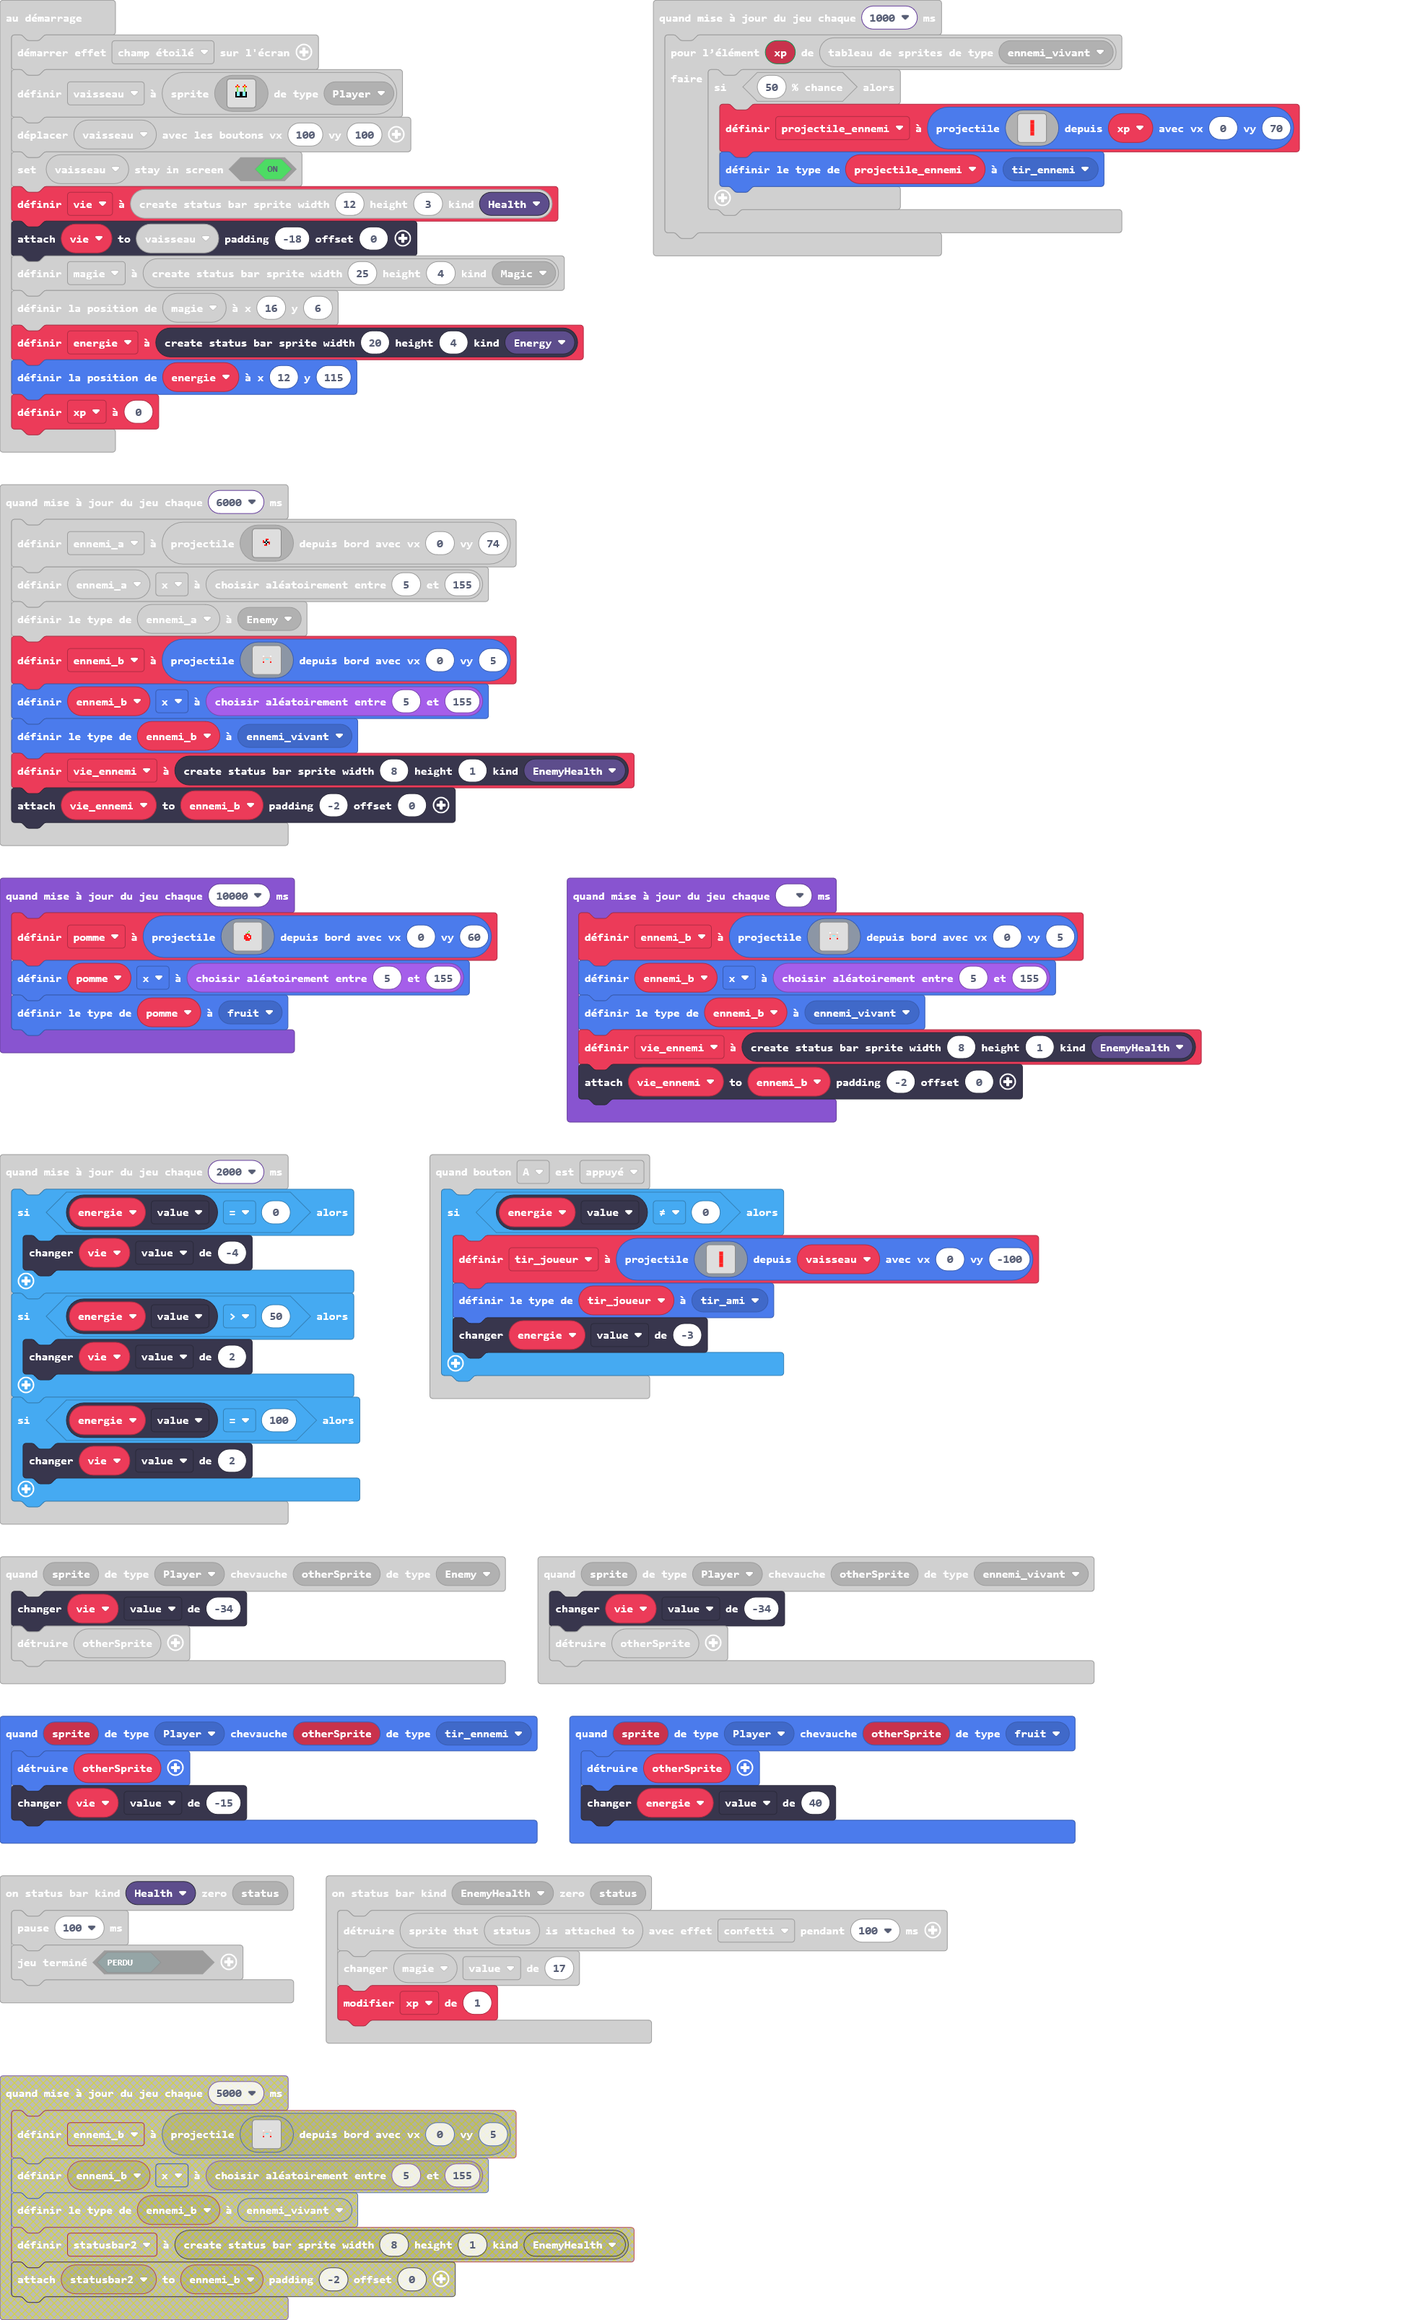
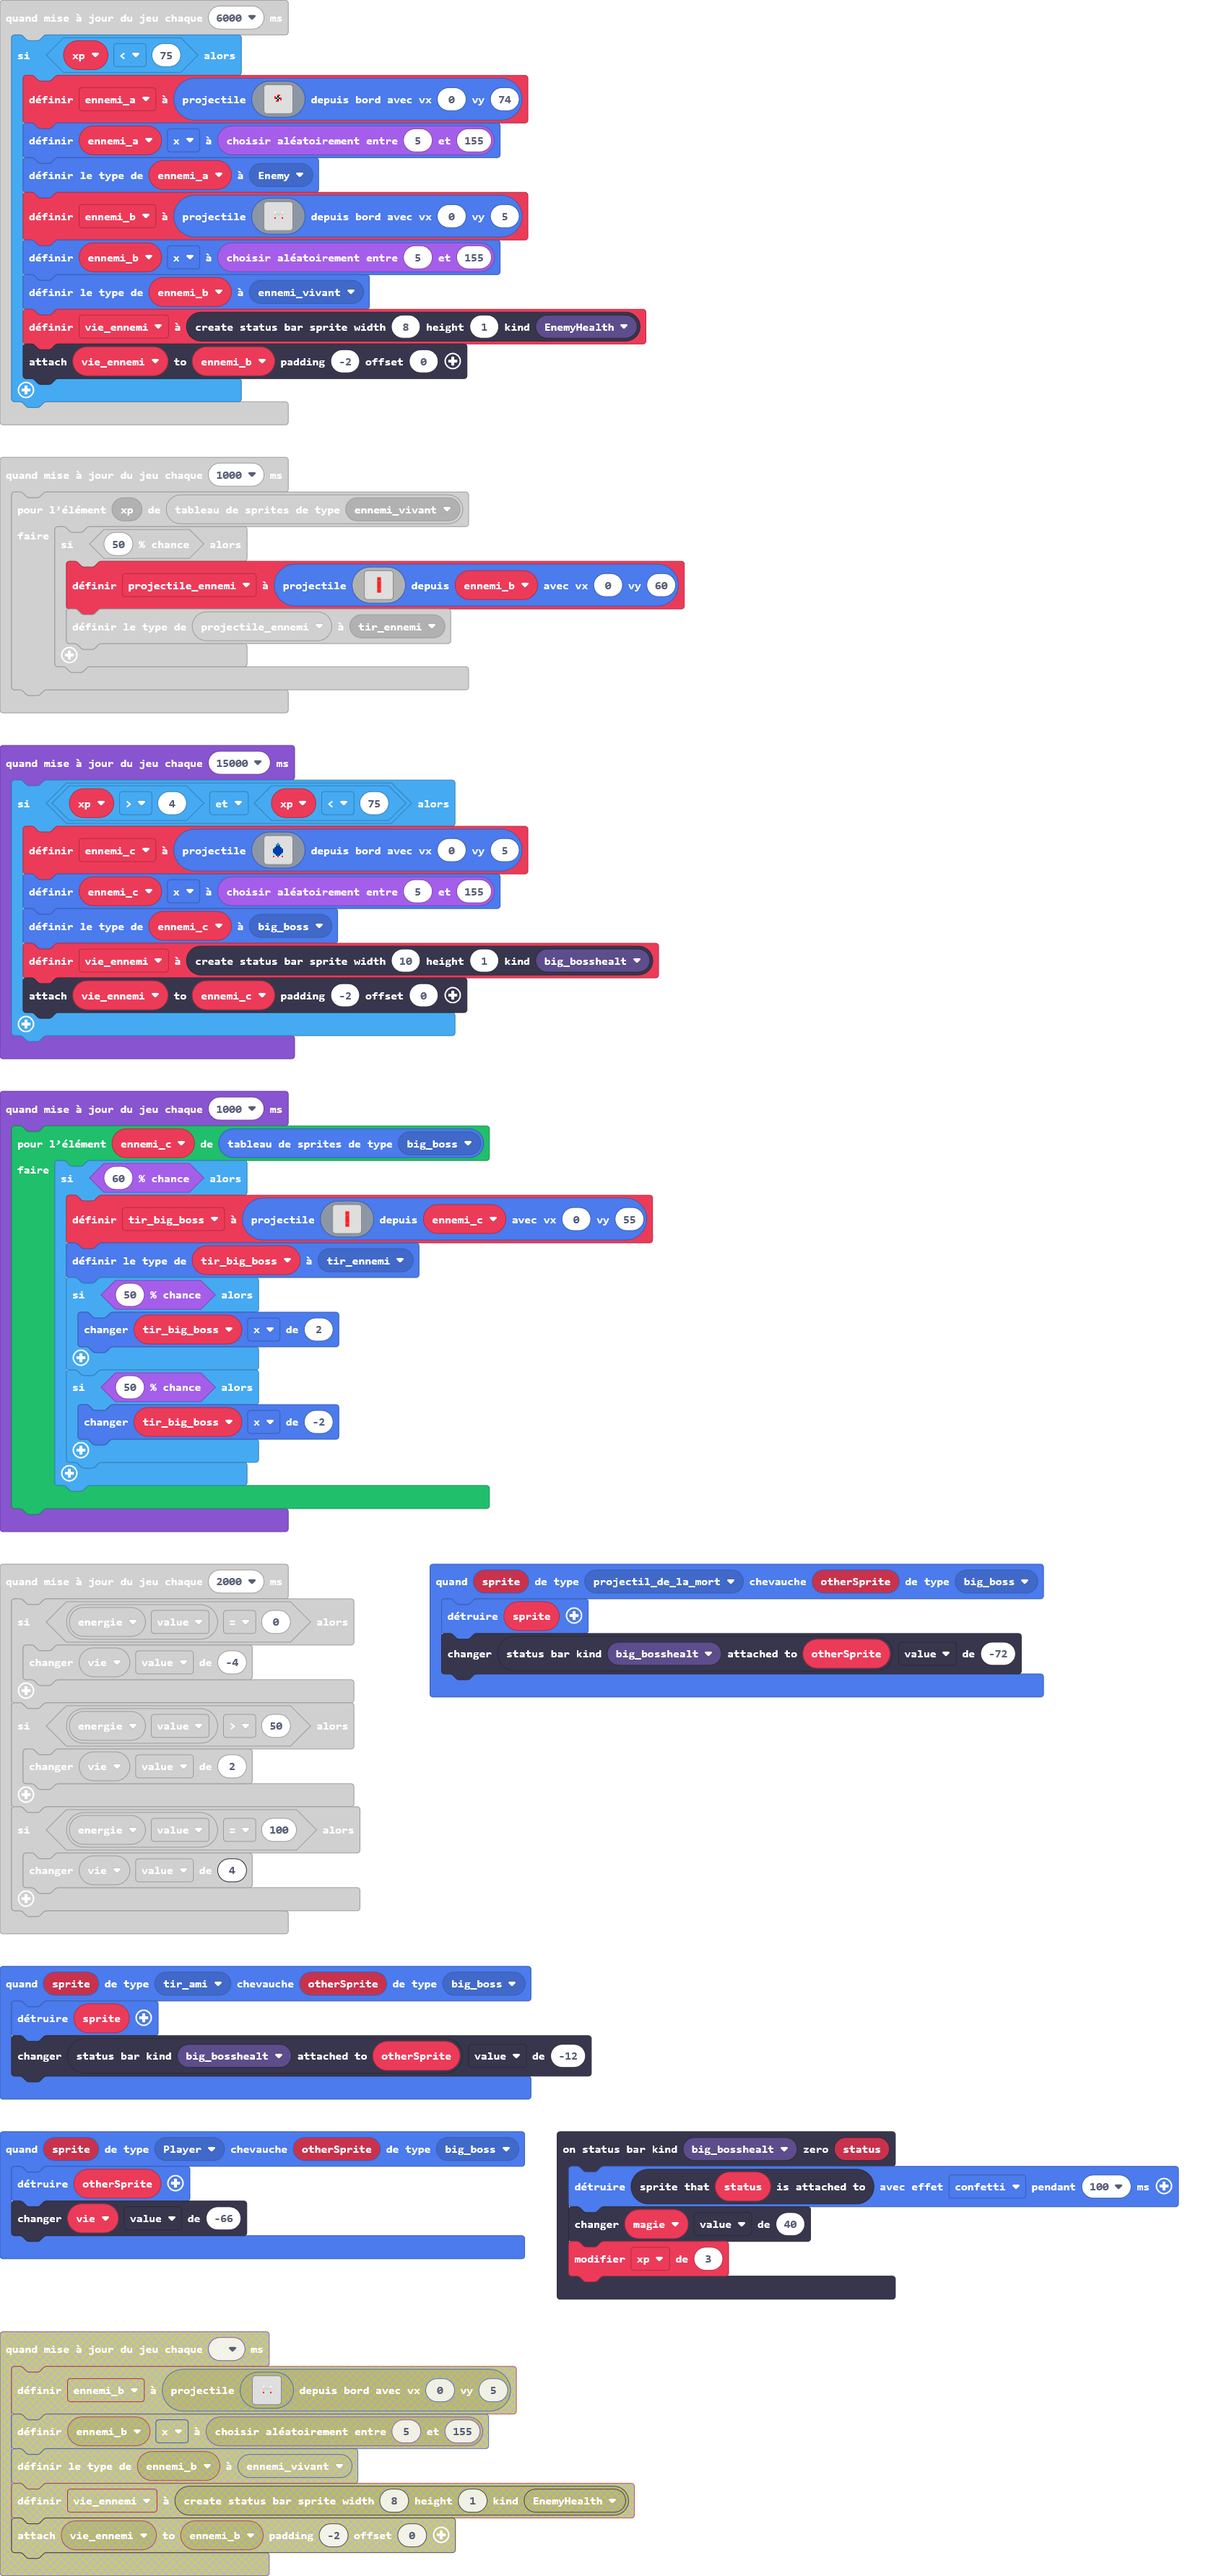
Mise à jour main.blocks, main.ts

diff --git a/main.ts b/main.ts
@@ -4,7 +4,17 @@ namespace SpriteKind {
     export const projectil_de_la_mort = SpriteKind.create()
     export const tir_ennemi = SpriteKind.create()
     export const fruit = SpriteKind.create()
+    export const big_boss = SpriteKind.create()
+    export const tir_big_boss = SpriteKind.create()
 }
+namespace StatusBarKind {
+    export const big_bosshealt = StatusBarKind.create()
+}
+statusbars.onZero(StatusBarKind.big_bosshealt, function (status) {
+    status.spriteAttachedTo().destroy(effects.confetti, 100)
+    magie.value += 40
+    xp += 3
+})
 sprites.onOverlap(SpriteKind.tir_ami, SpriteKind.ennemi_vivant, function (sprite, otherSprite) {
     sprite.destroy()
     statusbars.getStatusBarAttachedTo(StatusBarKind.EnemyHealth, otherSprite).value += -34
@@ -20,6 +30,10 @@ sprites.onOverlap(SpriteKind.Player, SpriteKind.fruit, function (sprite, otherSp
 sprites.onOverlap(SpriteKind.projectil_de_la_mort, SpriteKind.ennemi_vivant, function (sprite, otherSprite) {
     sprite.destroy()
     statusbars.getStatusBarAttachedTo(StatusBarKind.EnemyHealth, otherSprite).value += -200
+})
+sprites.onOverlap(SpriteKind.tir_ami, SpriteKind.big_boss, function (sprite, otherSprite) {
+    sprite.destroy()
+    statusbars.getStatusBarAttachedTo(StatusBarKind.big_bosshealt, otherSprite).value += -12
 })
 controller.A.onEvent(ControllerButtonEvent.Pressed, function () {
     if (energie.value != 0) {
@@ -39,6 +53,10 @@ statusbars.onZero(StatusBarKind.EnemyHealth, function (status) {
     status.spriteAttachedTo().destroy(effects.confetti, 100)
     magie.value += 17
     xp += 1
+})
+sprites.onOverlap(SpriteKind.projectil_de_la_mort, SpriteKind.big_boss, function (sprite, otherSprite) {
+    sprite.destroy()
+    statusbars.getStatusBarAttachedTo(StatusBarKind.big_bosshealt, otherSprite).value += -72
 })
 statusbars.onZero(StatusBarKind.Health, function (status) {
     pause(100)
@@ -63,15 +81,21 @@ sprites.onOverlap(SpriteKind.Player, SpriteKind.ennemi_vivant, function (sprite,
     vie.value += -34
     otherSprite.destroy()
 })
+sprites.onOverlap(SpriteKind.Player, SpriteKind.big_boss, function (sprite, otherSprite) {
+    otherSprite.destroy()
+    vie.value += -66
+})
 sprites.onOverlap(SpriteKind.Player, SpriteKind.Enemy, function (sprite, otherSprite) {
     vie.value += -34
     otherSprite.destroy()
 })
 let pomme: Sprite = null
-let vie_ennemi: StatusBarSprite = null
-let ennemi_b: Sprite = null
 let ennemi_a: Sprite = null
+let tir_big_boss: Sprite = null
+let ennemi_b: Sprite = null
 let projectile_ennemi: Sprite = null
+let vie_ennemi: StatusBarSprite = null
+let ennemi_c: Sprite = null
 let projectile_de_la_mort_ami: Sprite = null
 let tir_joueur: Sprite = null
 let energie: StatusBarSprite = null
@@ -106,6 +130,32 @@ magie.setPosition(16, 6)
 energie = statusbars.create(20, 4, StatusBarKind.Energy)
 energie.setPosition(12, 115)
 let xp = 0
+game.onUpdateInterval(15000, function () {
+    if (xp > 4 && xp < 75) {
+        ennemi_c = sprites.createProjectileFromSide(img`
+            . . . . . . . . . . . . . . . . 
+            . . . . . . . . . . . . . . . . 
+            . . . . . . . . . . . . . . . . 
+            . . . . . . . 6 . . . . . . . . 
+            . . . . . . 6 6 6 . . . . . . . 
+            . . . . . . 8 8 8 . . . . . . . 
+            . . . . . 8 8 8 8 8 . . . . . . 
+            . . . . 8 8 8 8 8 8 8 . . . . . 
+            . . . . 8 8 8 8 8 8 8 . . . . . 
+            . . . . 8 8 8 8 8 8 8 . . . . . 
+            . . . . 9 8 8 8 8 8 9 . . . . . 
+            . . . . 9 . 8 8 8 . 9 . . . . . 
+            . . . . 2 . . 2 . . 2 . . . . . 
+            . . . . . . . . . . . . . . . . 
+            . . . . . . . . . . . . . . . . 
+            . . . . . . . . . . . . . . . . 
+            `, 0, 5)
+        ennemi_c.x = randint(5, 155)
+        ennemi_c.setKind(SpriteKind.big_boss)
+        vie_ennemi = statusbars.create(10, 1, StatusBarKind.big_bosshealt)
+        vie_ennemi.attachToSprite(ennemi_c, -2, 0)
+    }
+})
 game.onUpdateInterval(2000, function () {
     if (energie.value == 0) {
         vie.value += -4
@@ -114,7 +164,7 @@ game.onUpdateInterval(2000, function () {
         vie.value += 2
     }
     if (energie.value == 100) {
-        vie.value += 2
+        vie.value += 4
     }
 })
 game.onUpdateInterval(1000, function () {
@@ -127,78 +177,77 @@ game.onUpdateInterval(1000, function () {
                 . 2 . 
                 . 2 . 
                 . . . 
-                `, xp, 0, 70)
+                `, ennemi_b, 0, 60)
             projectile_ennemi.setKind(SpriteKind.tir_ennemi)
         }
     }
 })
-game.onUpdateInterval(6000, function () {
-    ennemi_a = sprites.createProjectileFromSide(img`
-        . . . . . . . . . . . . . . . . 
-        . . . . . . . . . . . . . . . . 
-        . . . . . . . . . . . . . . . . 
-        . . . . . . . . . . . . . . . . 
-        . . . . . . . . . . . . . . . . 
-        . . . . . . . 2 2 . . . . . . . 
-        . . . . . 2 . f . . . . . . . . 
-        . . . . . 2 f 9 f 2 . . . . . . 
-        . . . . . . . f . 2 . . . . . . 
-        . . . . . . 2 2 . . . . . . . . 
-        . . . . . . . . . . . . . . . . 
-        . . . . . . . . . . . . . . . . 
-        . . . . . . . . . . . . . . . . 
-        . . . . . . . . . . . . . . . . 
-        . . . . . . . . . . . . . . . . 
-        . . . . . . . . . . . . . . . . 
-        `, 0, 74)
-    ennemi_a.x = randint(5, 155)
-    ennemi_a.setKind(SpriteKind.Enemy)
-    ennemi_b = sprites.createProjectileFromSide(img`
-        . . . . . . . . . . . . . . . . 
-        . . . . . . . . . . . . . . . . 
-        . . . . . . . . . . . . . . . . 
-        . . . . . . . . . . . . . . . . 
-        . . . . . . . . . . . . . . . . 
-        . . . . . 1 . . . . 1 . . . . . 
-        . . . . . d d d d d d . . . . . 
-        . . . . . d . 9 9 . d . . . . . 
-        . . . . . d . . . . d . . . . . 
-        . . . . . 2 . . . . 2 . . . . . 
-        . . . . . . . . . . . . . . . . 
-        . . . . . . . . . . . . . . . . 
-        . . . . . . . . . . . . . . . . 
-        . . . . . . . . . . . . . . . . 
-        . . . . . . . . . . . . . . . . 
-        . . . . . . . . . . . . . . . . 
-        `, 0, 5)
-    ennemi_b.x = randint(5, 155)
-    ennemi_b.setKind(SpriteKind.ennemi_vivant)
-    vie_ennemi = statusbars.create(8, 1, StatusBarKind.EnemyHealth)
-    vie_ennemi.attachToSprite(ennemi_b, -2, 0)
+game.onUpdateInterval(1000, function () {
+    for (let ennemi_c of sprites.allOfKind(SpriteKind.big_boss)) {
+        if (Math.percentChance(60)) {
+            tir_big_boss = sprites.createProjectileFromSprite(img`
+                . . . 
+                . 2 . 
+                . 2 . 
+                . 2 . 
+                . 2 . 
+                . . . 
+                `, ennemi_c, 0, 55)
+            tir_big_boss.setKind(SpriteKind.tir_ennemi)
+            if (Math.percentChance(50)) {
+                tir_big_boss.x += 2
+            }
+            if (Math.percentChance(50)) {
+                tir_big_boss.x += -2
+            }
+        }
+    }
 })
-game.onUpdateInterval(, function () {
-    ennemi_b = sprites.createProjectileFromSide(img`
-        . . . . . . . . . . . . . . . . 
-        . . . . . . . . . . . . . . . . 
-        . . . . . . . . . . . . . . . . 
-        . . . . . . . . . . . . . . . . 
-        . . . . . . . . . . . . . . . . 
-        . . . . . 1 . . . . 1 . . . . . 
-        . . . . . d d d d d d . . . . . 
-        . . . . . d . 9 9 . d . . . . . 
-        . . . . . d . . . . d . . . . . 
-        . . . . . 2 . . . . 2 . . . . . 
-        . . . . . . . . . . . . . . . . 
-        . . . . . . . . . . . . . . . . 
-        . . . . . . . . . . . . . . . . 
-        . . . . . . . . . . . . . . . . 
-        . . . . . . . . . . . . . . . . 
-        . . . . . . . . . . . . . . . . 
-        `, 0, 5)
-    ennemi_b.x = randint(5, 155)
-    ennemi_b.setKind(SpriteKind.ennemi_vivant)
-    vie_ennemi = statusbars.create(8, 1, StatusBarKind.EnemyHealth)
-    vie_ennemi.attachToSprite(ennemi_b, -2, 0)
+game.onUpdateInterval(6000, function () {
+    if (xp < 75) {
+        ennemi_a = sprites.createProjectileFromSide(img`
+            . . . . . . . . . . . . . . . . 
+            . . . . . . . . . . . . . . . . 
+            . . . . . . . . . . . . . . . . 
+            . . . . . . . . . . . . . . . . 
+            . . . . . . . . . . . . . . . . 
+            . . . . . . . 2 2 . . . . . . . 
+            . . . . . 2 . f . . . . . . . . 
+            . . . . . 2 f 9 f 2 . . . . . . 
+            . . . . . . . f . 2 . . . . . . 
+            . . . . . . 2 2 . . . . . . . . 
+            . . . . . . . . . . . . . . . . 
+            . . . . . . . . . . . . . . . . 
+            . . . . . . . . . . . . . . . . 
+            . . . . . . . . . . . . . . . . 
+            . . . . . . . . . . . . . . . . 
+            . . . . . . . . . . . . . . . . 
+            `, 0, 74)
+        ennemi_a.x = randint(5, 155)
+        ennemi_a.setKind(SpriteKind.Enemy)
+        ennemi_b = sprites.createProjectileFromSide(img`
+            . . . . . . . . . . . . . . . . 
+            . . . . . . . . . . . . . . . . 
+            . . . . . . . . . . . . . . . . 
+            . . . . . . . . . . . . . . . . 
+            . . . . . . . . . . . . . . . . 
+            . . . . . 1 . . . . 1 . . . . . 
+            . . . . . d d d d d d . . . . . 
+            . . . . . d . 9 9 . d . . . . . 
+            . . . . . d . . . . d . . . . . 
+            . . . . . 2 . . . . 2 . . . . . 
+            . . . . . . . . . . . . . . . . 
+            . . . . . . . . . . . . . . . . 
+            . . . . . . . . . . . . . . . . 
+            . . . . . . . . . . . . . . . . 
+            . . . . . . . . . . . . . . . . 
+            . . . . . . . . . . . . . . . . 
+            `, 0, 5)
+        ennemi_b.x = randint(5, 155)
+        ennemi_b.setKind(SpriteKind.ennemi_vivant)
+        vie_ennemi = statusbars.create(8, 1, StatusBarKind.EnemyHealth)
+        vie_ennemi.attachToSprite(ennemi_b, -2, 0)
+    }
 })
 game.onUpdateInterval(10000, function () {
     pomme = sprites.createProjectileFromSide(img`
